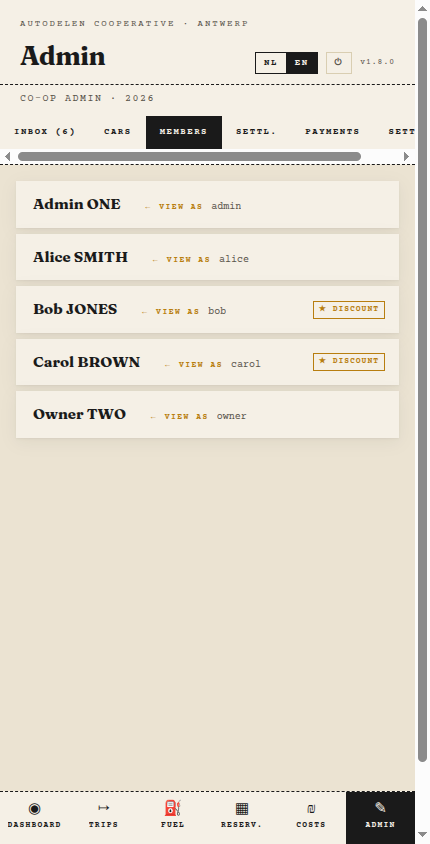
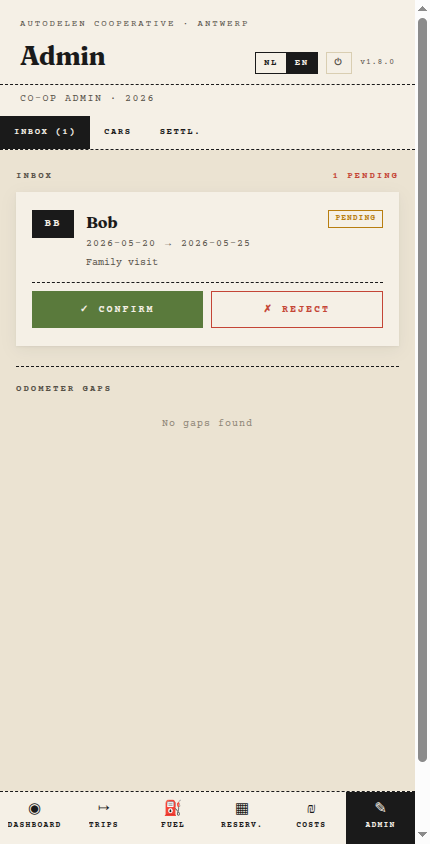
fix(screenshots): use owner login for owner guide shots
Owner sees only Inbox/Cars/Settlement tabs — admin login was incorrectly
showing Members/Payments/Settings tabs in all owner guide screenshots.

Changed region(s): [[0.0, 0.1232, 0.9674, 0.4929], [0.3628, 0.4929, 0.4837, 0.5237], [0.514, 0.4929, 0.5744, 0.5237]]

diff --git a/scripts/screenshot-docs.ts b/scripts/screenshot-docs.ts
@@ -573,7 +573,7 @@ async function main() {
   console.log("\n[owner guide]");
 
   if (START_FROM <= 112 && END_AT >= 100) {
-    await login(page, "admin", "admin");
+    await login(page, "owner", "owner");
   }
 
   // ── 100. Inbox — pending reservations ─────────────────────────────────────
